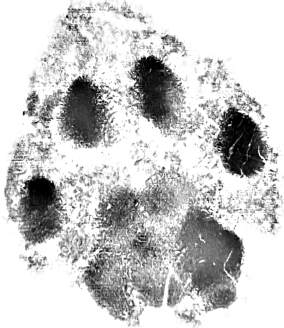
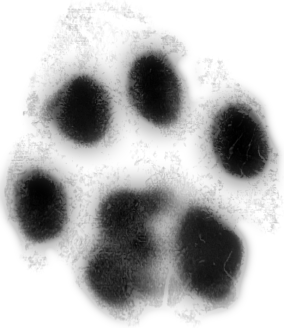
Paw print: dome the pads and tone down the fur texture
The pads are now traced from dense ink and rounded into cushions; the raw
ink is kept as a 22% texture so creases and fur speckle still show. The
palm pad reads as one pad instead of separate ink blobs.

Claude-Session: https://claude.ai/code/session_01CWSRf4DGtALWmR2PMyTM5o

diff --git a/side-projects/paw-print/build.py b/side-projects/paw-print/build.py
@@ -25,7 +25,9 @@ PREVIEW = os.path.join(HERE, 'models', 'heightmap-preview.png')
 PX_MM = 0.25          # output resolution, mm per pixel (keep in step with index.html)
 PAW_LONG_MM = 82.0    # length of the paw's longer side in the 100 mm plaque
 CROP_X = (40, 924)    # photo has black bars left and right
-GAMMA = 1.0          # 1 = height follows ink darkness linearly (raw)
+GAMMA = 1.0          # 1 = height follows ink darkness linearly
+TEXTURE = 0.22       # share of the height from the raw ink (speckle, creases); the rest is the domed pads
+PAD_LEVEL = (0.34, 0.54)  # blurred ink density that counts as pad (soft edge between the two)
 
 
 def box_blur(a, r):
@@ -147,7 +149,19 @@ def main():
 
     # Soft-fade the ink outside the outline (stray pen marks, paper grain) to zero.
     feather = np.clip(gauss_blur(msk.astype(np.float64), 4) * 2.0, 0, 1)
-    rel = np.clip(rel, 0, 1) ** GAMMA * feather
+    raw = np.clip(rel, 0, 1) ** GAMMA * feather
+
+    # 5. Domed pads: where the ink is dense over a few millimetres it is a pad. Blur that pad shape
+    #    again to round it into a cushion, so pads rise smoothly instead of as flat ink plateaus.
+    soft = gauss_blur(raw, 12)
+    soft = soft / max(np.percentile(soft, 99.5), 1e-6)
+    t = np.clip((soft - PAD_LEVEL[0]) / (PAD_LEVEL[1] - PAD_LEVEL[0]), 0, 1)
+    pads = t * t * (3 - 2 * t)
+    cushion = gauss_blur(pads, 9)
+    cushion = np.clip(cushion / max(cushion.max(), 1e-6), 0, 1) ** 0.6
+    dome = np.minimum(pads, 1) * 0.35 + cushion * 0.65
+    dome = dome / max(dome.max(), 1e-6)
+    rel = np.clip((1 - TEXTURE) * dome + TEXTURE * raw, 0, 1) * feather
 
     rgb = np.zeros((oh, ow, 3), np.uint8)
     rgb[..., 0] = np.round(rel * 255)

diff --git a/side-projects/paw-print/README.md b/side-projects/paw-print/README.md
@@ -7,7 +7,7 @@ Pick Plaque / Paw only / Stamp, drag to orbit, **Light** moves the raking light,
 
 ## Models
 
-The height is the raw ink darkness of `source.png`: dark pad ink is highest, the speckled fur is lower texture, bare paper is flat. Every speckle and crease is kept.
+The pads are traced from where the ink in `source.png` is densest and rounded into domes (78% of the height). The raw ink darkness rides on top as a light texture (22%), so the speckled fur, pad creases and cracks from the print still show. Bare paper is flat. Change the mix with `TEXTURE` in `build.py` (1.0 = the raw ink only).
 
 | Model | Size | Notes |
 | --- | --- | --- |
@@ -20,7 +20,7 @@ All three print face up with no supports and are checked watertight. **None has 
 ## Files
 
 - `source.png`: the photo.
-- `build.py`: photo to `models/heightmap.png` (red = relief, green = paw outline) and `heightmap-preview.png` (the relief as a greyscale picture). Flattens the paper lighting, keeps the ink raw (3x3 median only), traces the outline, scales the paw to 82 mm long. Needs numpy and Pillow.
+- `build.py`: photo to `models/heightmap.png` (red = relief, green = paw outline) and `heightmap-preview.png` (the relief as a greyscale picture). Flattens the paper lighting, domes the pads and keeps the raw ink as texture, traces the outline, scales the paw to 82 mm long. Needs numpy and Pillow.
 - `mesher.js`: heightmap to watertight meshes and binary STL, shared by the viewer and the check.
 - `check.mjs`: `node check.mjs` builds all three and checks edges (open / non-manifold / flipped) and volume; `--stl` also writes `models/*.stl` (git-ignored).
 - `index.html`: the viewer.
